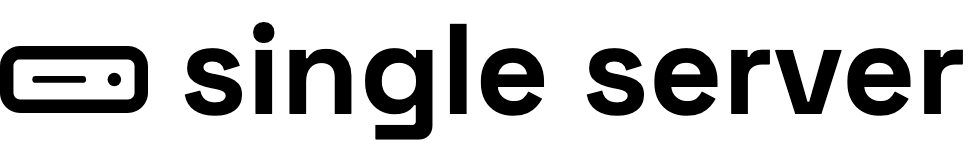
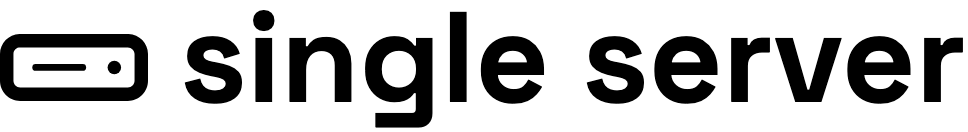
Fix README wordmark on mobile and tighten crop
Use absolute raw.githubusercontent URLs, which the GitHub
mobile app requires inside picture/source tags, and recapture
the lockup with minimal padding at the marketing page's size.

diff --git a/README.md b/README.md
@@ -1,7 +1,7 @@
 <p align="center">
   <picture>
-    <source media="(prefers-color-scheme: dark)" srcset="www/server-single-wordmark-dark.png">
-    <img src="www/server-single-wordmark.png" alt="single server" width="440">
+    <source media="(prefers-color-scheme: dark)" srcset="https://raw.githubusercontent.com/dvassallo/singleserver/main/www/server-single-wordmark-dark.png">
+    <img src="https://raw.githubusercontent.com/dvassallo/singleserver/main/www/server-single-wordmark.png" alt="single server" width="484">
   </picture>
 </p>
 